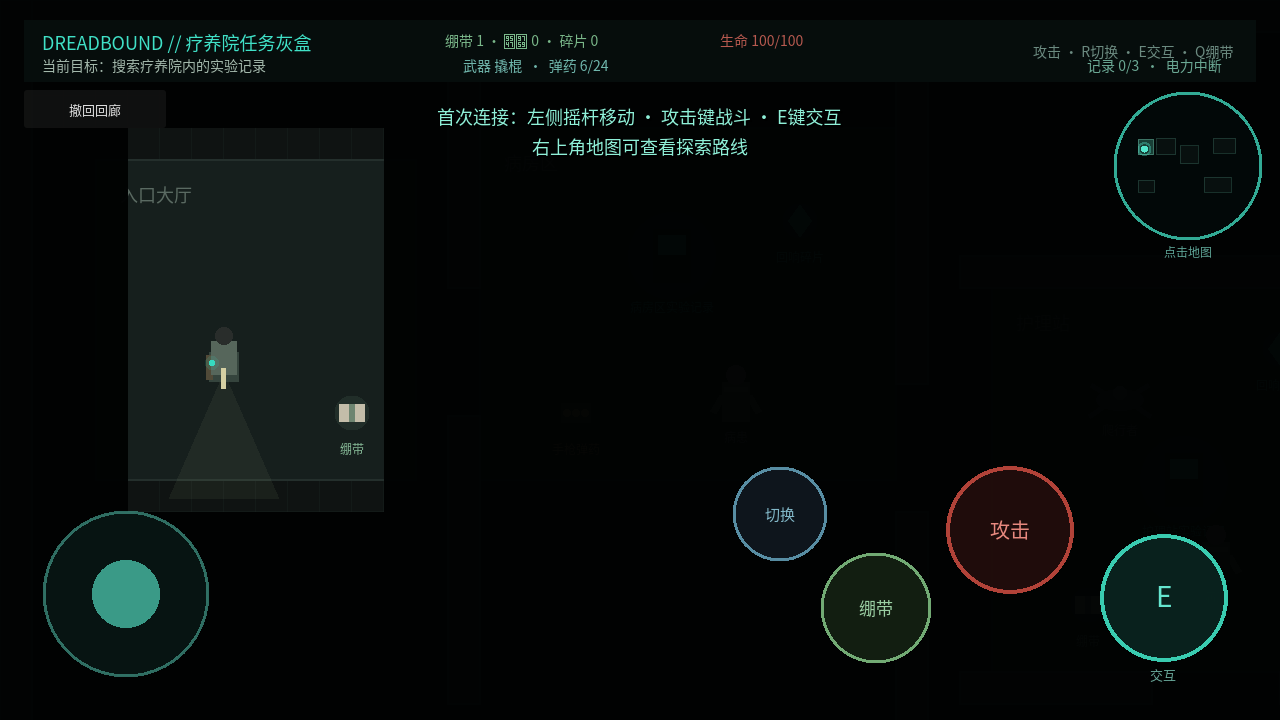
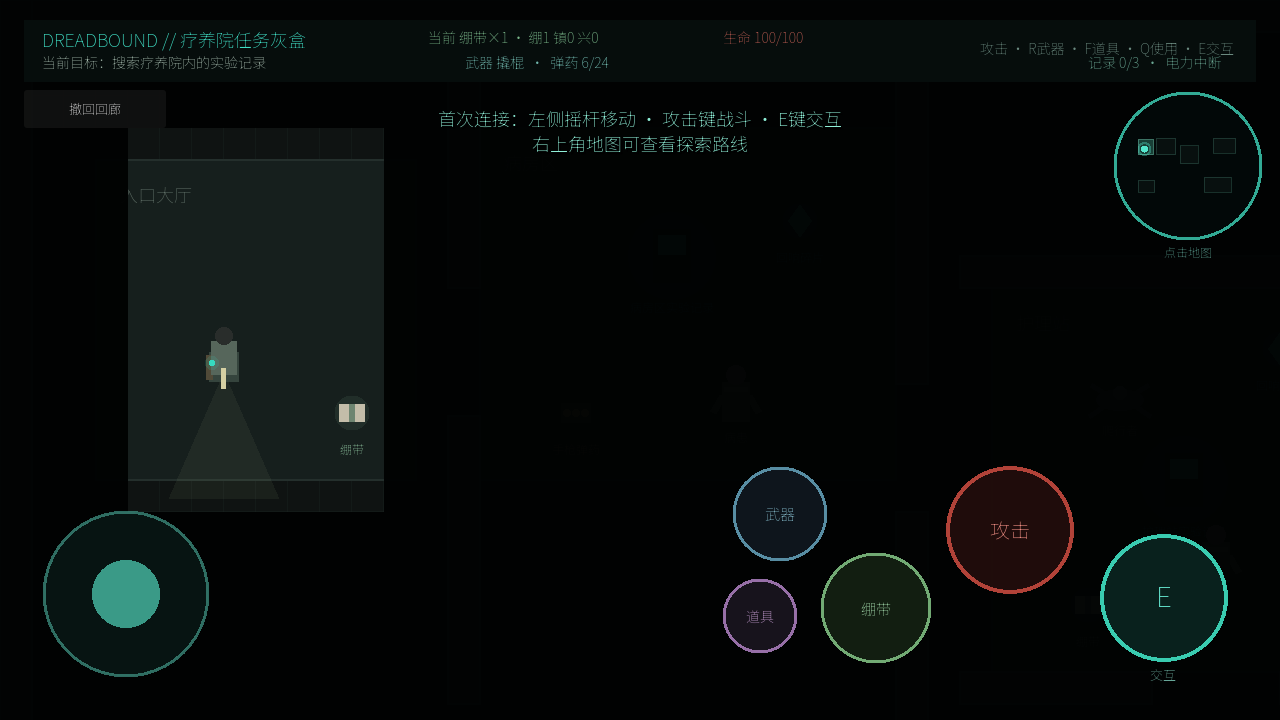
Add selectable consumable controls

diff --git a/README.md b/README.md
@@ -18,7 +18,7 @@
 
 ## 运行目标
 
-安装 Godot 4 后，在 Project Manager 中导入 `project.godot` 并按 **F5**，或运行 `godot --path .`。电脑使用 WASD/方向键移动、空格/J 攻击、R/Tab 切换武器、E 交互、Q 使用绷带/镇静剂；手机和平板使用左侧摇杆及右侧攻击、切换、交互、道具按钮。建议横屏游玩。
+安装 Godot 4 后，在 Project Manager 中导入 `project.godot` 并按 **F5**，或运行 `godot --path .`。电脑使用 WASD/方向键移动、空格/J 攻击、R/Tab 切换武器、F 切换道具、Q 使用当前道具、E 交互；手机和平板使用左侧摇杆及右侧攻击、武器切换、道具切换、当前道具和交互按钮。当前选中的道具及数量会显示在顶部状态栏与道具按钮中。建议横屏游玩。
 
 首个可玩目标是一局 10～15 分钟的废弃疗养院垂直切片：寻找三份实验记录、恢复地下室电力，并在怪物追击下撤离。
 
